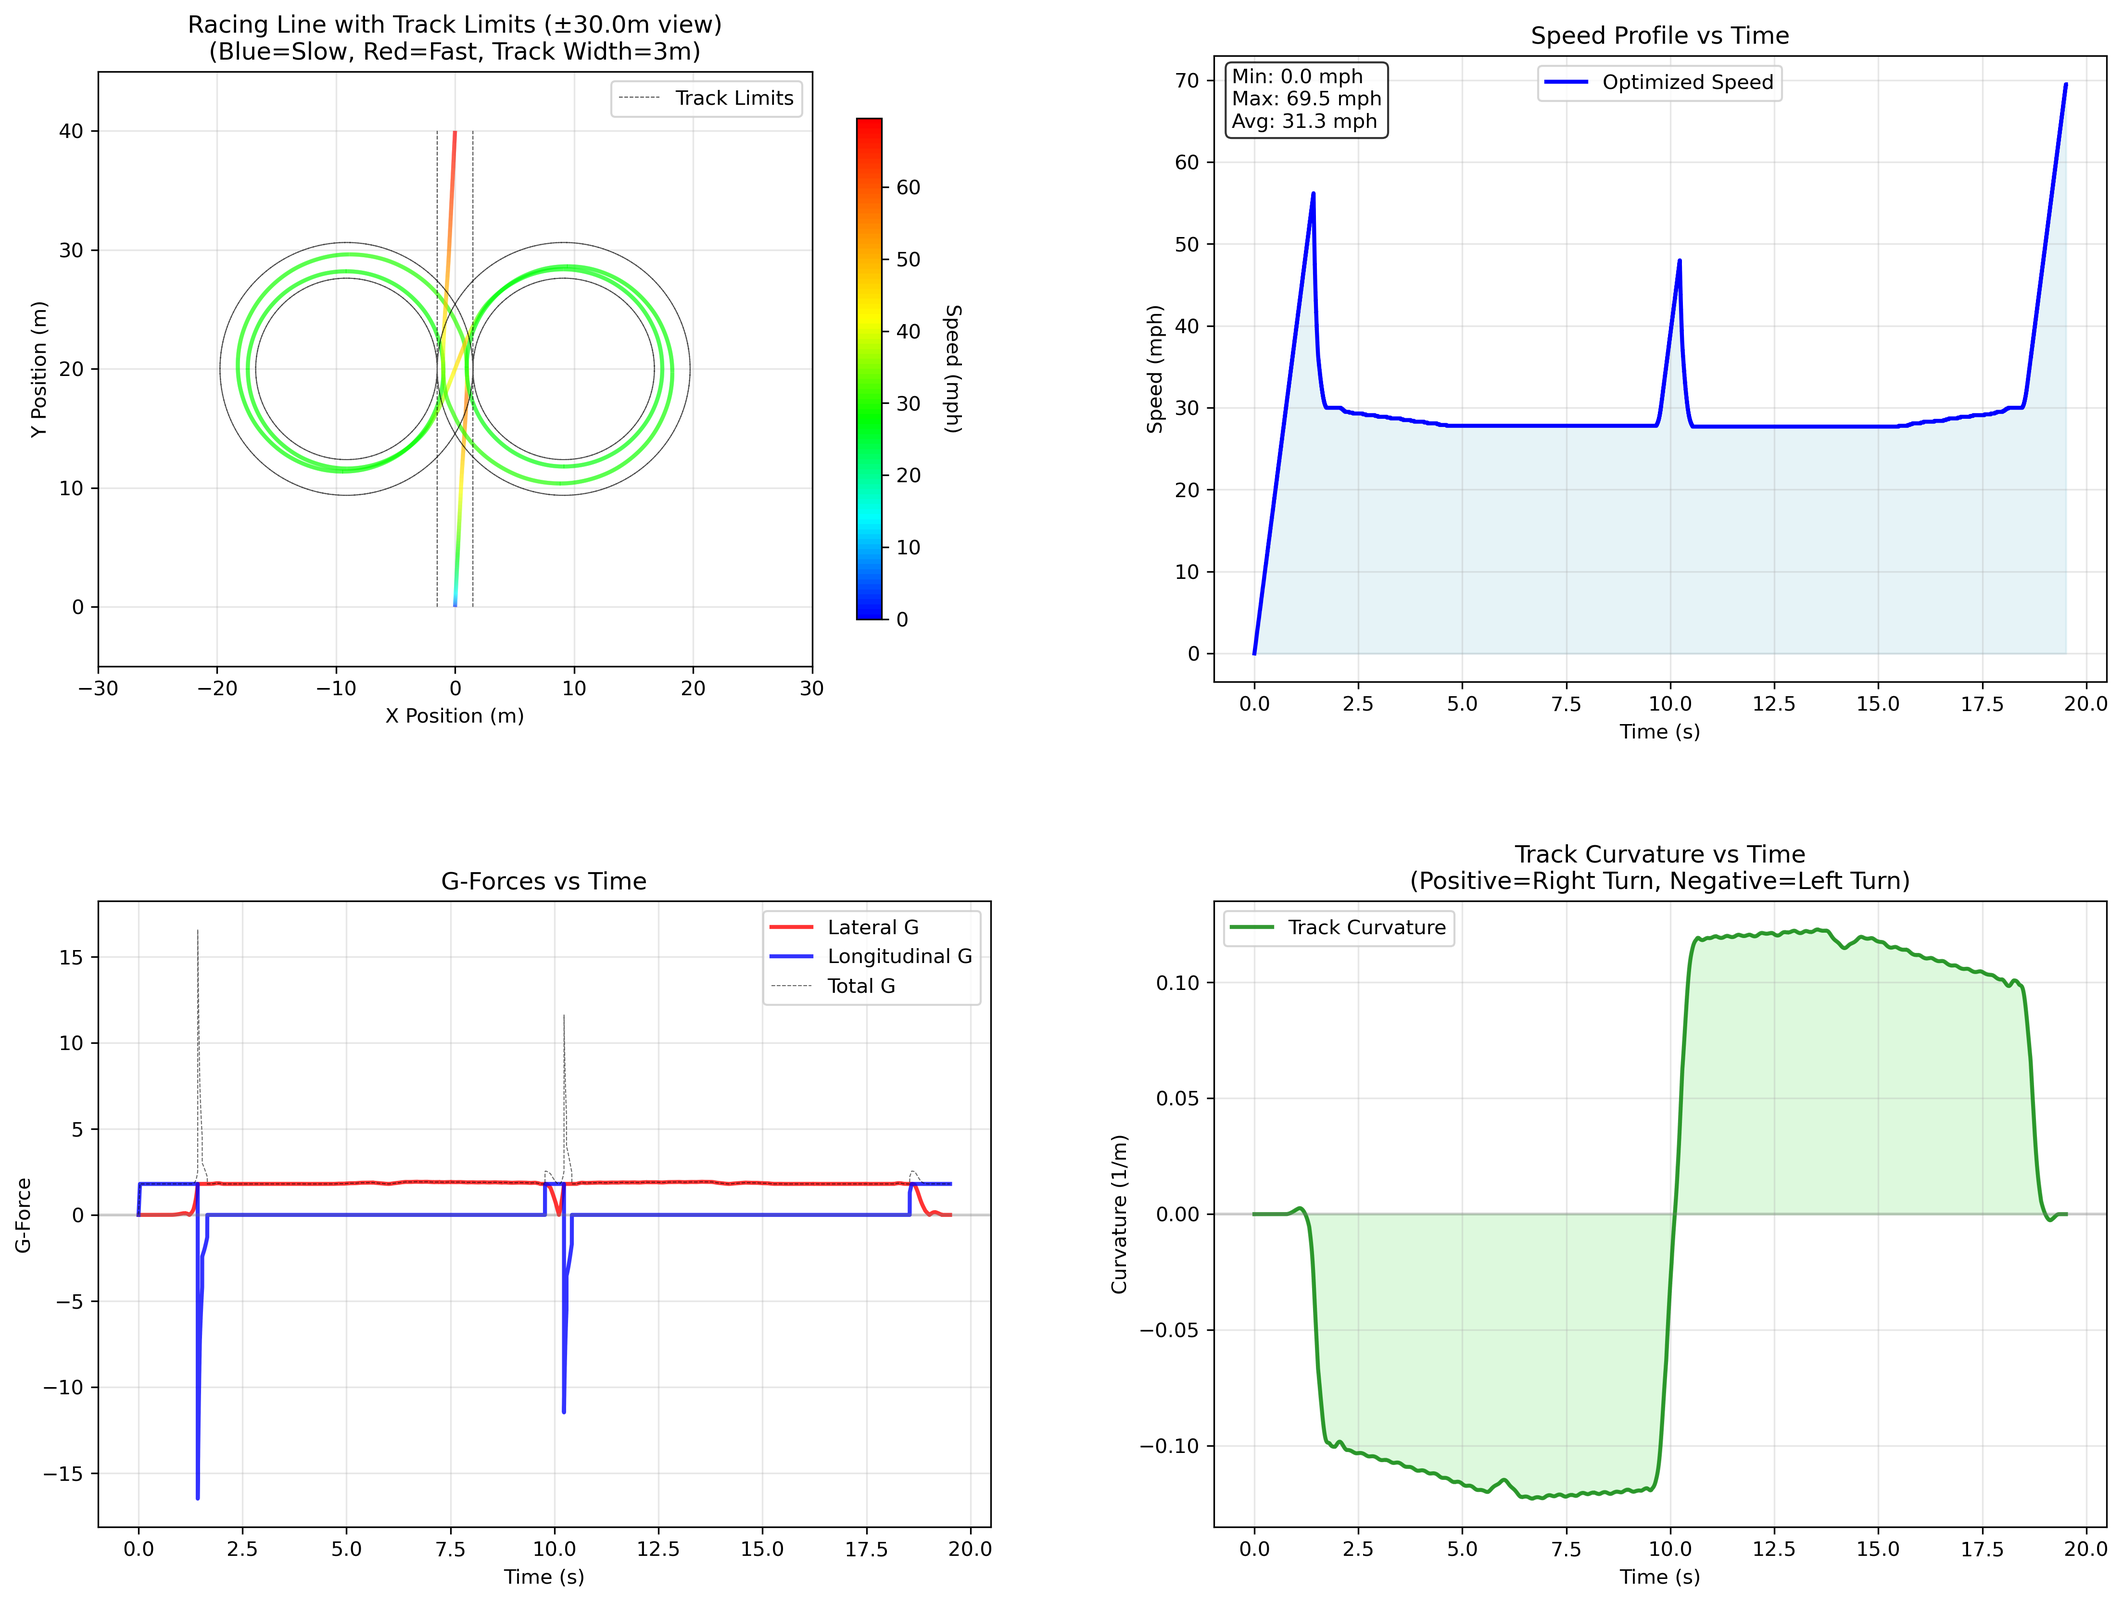
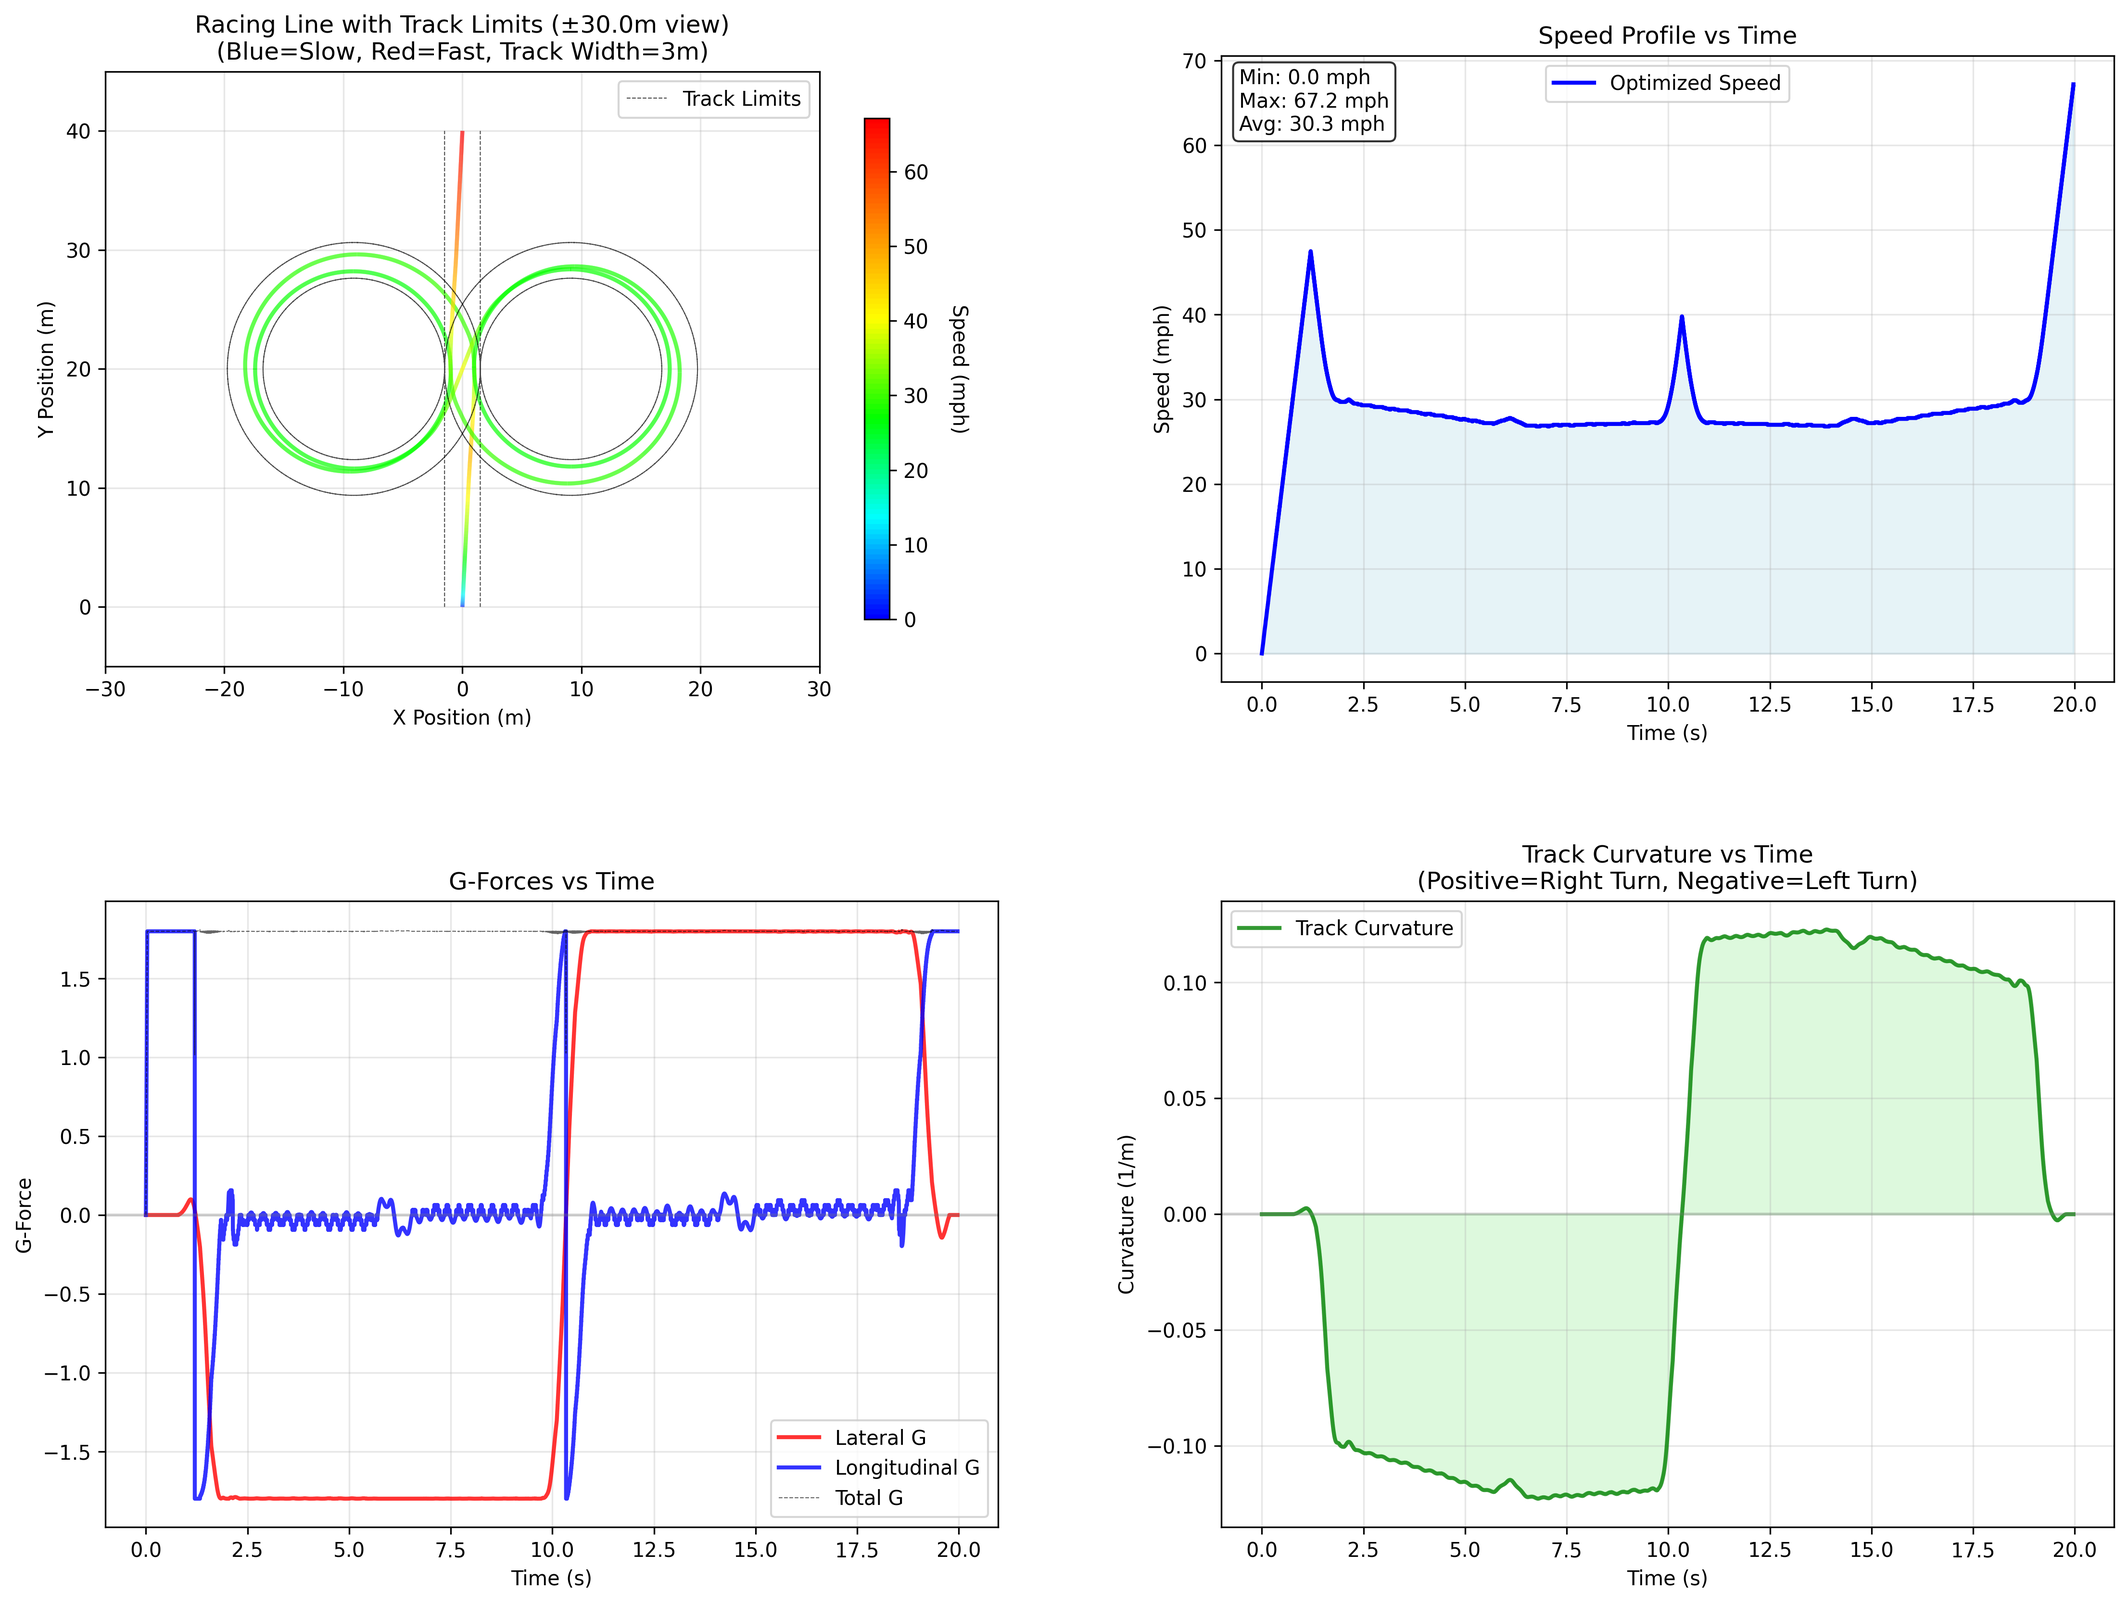
Working for the current line logic

diff --git a/Extensions/SpeedOptimization.cs b/Extensions/SpeedOptimization.cs
@@ -2,6 +2,7 @@ using System;
 using System.IO;
 using System.Linq;
 using System.Threading.Tasks;
+using System.Xml;
 using DLS.Structures;
 
 namespace DLS.Extensions
@@ -41,7 +42,7 @@ namespace DLS.Extensions
             });
 
             // Resolve conflicts between overlapping profiles
-            var (finalSpeedProfile, finalLateralGs, finalLongitudinalGs) = ResolveSpeedAndGForceConflicts(speedProfiles, racingLine, maxAccelG);
+            var (finalSpeedProfile, finalLateralGs, finalLongitudinalGs) = ResolveSpeedAndGForceConflicts(optimiser, speedProfiles, racingLine, maxAccelG);
 
             // Apply final speed profile to racing line
             ApplySpeedProfileToRacingLine(finalSpeedProfile, turns.ToArray());
@@ -67,6 +68,8 @@ namespace DLS.Extensions
             double maxLateralG = optimiser.GetMaxLateralGForTurn(isRightTurn);
             int trueStartIndex = turn.StartIndex;
             int trueEndIndex = turn.EndIndex;
+            int maxBrakeCurveIndex = turn.ApexIndex, maxAccelCurveIndex = turn.ApexIndex;
+
 
             var profile = new SpeedProfile
             {
@@ -80,17 +83,17 @@ namespace DLS.Extensions
             for (int i = 0; i < profile.Speeds.Length; i++)
             {
                 profile.Speeds[i] = terminalSpeedMs;
-                profile.LateralGs[i] = 0.0;
-                profile.LongitudinalGs[i] = 0.0;
             }
 
             for (int i = turn.ApexIndex - 1; i >= 0 && Math.Abs(racingLine[i].Curvature) >= Math.Abs(turn.MaxCurvature * 0.05); i--)
             {
                 trueStartIndex = i;
+                maxBrakeCurveIndex = Math.Abs(racingLine[i].Curvature) > Math.Abs(racingLine[maxBrakeCurveIndex].Curvature) ? i : maxBrakeCurveIndex;
             }
             for (int i = turn.ApexIndex + 1; i < racingLine.Length && Math.Abs(racingLine[i].Curvature) >= Math.Abs(turn.MaxCurvature * 0.05); i++)
             {
                 trueEndIndex = i;
+                maxAccelCurveIndex = Math.Abs(racingLine[i].Curvature) > Math.Abs(racingLine[maxAccelCurveIndex].Curvature) ? i : maxAccelCurveIndex;
             }
 
             // Calculate curvature-limited speeds
@@ -101,7 +104,6 @@ namespace DLS.Extensions
                 {
                     double maxSpeed = Math.Sqrt(maxLateralG * 9.81 / curvature);
                     profile.Speeds[i] = Math.Min(profile.Speeds[i], maxSpeed);
-                    profile.LateralGs[i] = maxLateralG;
                 }
             }
 
@@ -113,33 +115,18 @@ namespace DLS.Extensions
                 {
                     double curvature = Math.Abs(racingLine[i].Curvature);
                     double requiredLateralG = 0.0;
-
                     if (curvature > 0.0001 && profile.Speeds[i] > 0.1)
                     {
-                        requiredLateralG = (profile.Speeds[i] * profile.Speeds[i] * curvature) / 9.81;
+                        requiredLateralG = profile.Speeds[i + 1] * profile.Speeds[i + 1] * curvature / 9.81;
                     }
 
-                    double availableBrakingG = optimiser.GetMaxLongitudinalGForLateralG(requiredLateralG, true);
+                    double availableLongitudinalG = optimiser.GetMaxLongitudinalGForLateralG(requiredLateralG, Math.Abs(racingLine[i].Curvature) < Math.Abs(racingLine[i + 1].Curvature));
 
-                    double maxSpeedFromBraking = Math.Sqrt(
-                        profile.Speeds[i + 1] * profile.Speeds[i + 1] +
-                        2 * availableBrakingG * 9.81 * distance);
+                    double maxSpeed = Math.Sqrt(
+                        profile.Speeds[i + 1] * profile.Speeds[i + 1] -
+                        2 * availableLongitudinalG * 9.81 * distance);
 
-                    double oldSpeed = profile.Speeds[i];
-                    profile.Speeds[i] = Math.Max(profile.Speeds[i], maxSpeedFromBraking);
-
-                    //System.Console.WriteLine($"{profile.Speeds[i] * profile.Speeds[i] * racingLine[i].Curvature / 9.81} at index {i}");
-                    //System.Console.WriteLine($"{availableBrakingG} at index {i}");
-
-                    if (curvature > 0.0001)
-                    {
-                        profile.LateralGs[i] = (profile.Speeds[i] * profile.Speeds[i] * racingLine[i].Curvature) / 9.81;
-                    }
-                    if (profile.Speeds[i] < oldSpeed)
-                    {
-                        profile.LongitudinalGs[i] = -availableBrakingG;
-                        //System.Console.WriteLine($"{-availableBrakingG} at index {i}");
-                    }
+                    profile.Speeds[i] = Math.Min(profile.Speeds[i], maxSpeed);
                 }
             }
 
@@ -154,31 +141,16 @@ namespace DLS.Extensions
 
                     if (curvature > 0.0001 && profile.Speeds[i] > 0.1)
                     {
-                        requiredLateralG = (profile.Speeds[i] * profile.Speeds[i] * curvature) / 9.81;
+                        requiredLateralG = profile.Speeds[i - 1] * profile.Speeds[i - 1] * curvature / 9.81;
                     }
 
-                    double availableAccelG = optimiser.GetMaxLongitudinalGForLateralG(requiredLateralG, false);
+                    double availableAccelG = optimiser.GetMaxLongitudinalGForLateralG(requiredLateralG, Math.Abs(racingLine[i].Curvature) > Math.Abs(racingLine[i - 1].Curvature));
 
                     double maxSpeedFromAccel = Math.Sqrt(
                         profile.Speeds[i - 1] * profile.Speeds[i - 1] +
                         2 * availableAccelG * 9.81 * distance);
 
-                    double oldSpeed = profile.Speeds[i];
-                    profile.Speeds[i] = Math.Max(profile.Speeds[i], maxSpeedFromAccel);
-
-                    if (curvature > 0.0001)
-                    {
-                        profile.LateralGs[i] = (profile.Speeds[i] * profile.Speeds[i] * racingLine[i].Curvature) / 9.81;
-                    }
-
-                    if (profile.Speeds[i] == oldSpeed)
-                    {
-                        profile.LongitudinalGs[i] = 0.0;
-                    }
-                    else if (profile.Speeds[i] > profile.Speeds[i - 1])
-                    {
-                        profile.LongitudinalGs[i] = availableAccelG;
-                    }
+                    profile.Speeds[i] = Math.Min(profile.Speeds[i], maxSpeedFromAccel);
                 }
             }
 
@@ -192,10 +164,8 @@ namespace DLS.Extensions
                         profile.Speeds[i + 1] * profile.Speeds[i + 1] +
                         2 * maxBrakingG * 9.81 * distance);
 
-                    profile.Speeds[i] = Math.Max(profile.Speeds[i], maxSpeedFromBraking);
+                    profile.Speeds[i] = Math.Min(profile.Speeds[i], maxSpeedFromBraking);
                 }
-
-                profile.LongitudinalGs[i] = -maxBrakingG;
 
                 if (profile.Speeds[i] >= terminalSpeedMs * 0.99) break;
             }
@@ -210,9 +180,8 @@ namespace DLS.Extensions
                         profile.Speeds[i - 1] * profile.Speeds[i - 1] +
                         2 * maxAccelG * 9.81 * distance);
 
-                    profile.Speeds[i] = Math.Max(profile.Speeds[i], maxSpeedFromAccel);
+                    profile.Speeds[i] = Math.Min(profile.Speeds[i], maxSpeedFromAccel);
                 }
-                profile.LongitudinalGs[i] = maxAccelG;
 
                 if (profile.Speeds[i] >= terminalSpeedMs * 0.99) break;
             }
@@ -220,7 +189,7 @@ namespace DLS.Extensions
             return profile;
         }
 
-        private static (double[] speeds, double[] lateralGs, double[] longitudinalGs) ResolveSpeedAndGForceConflicts(SpeedProfile[] profiles, LineData[] racingLine, double maxAccelG)
+        private static (double[] speeds, double[] lateralGs, double[] longitudinalGs) ResolveSpeedAndGForceConflicts(this AccelerationOptimiser optimiser, SpeedProfile[] profiles, LineData[] racingLine, double maxAccelG)
         {
             var finalSpeeds = new double[racingLine.Length];
             var finalLateralGs = new double[racingLine.Length];
@@ -262,39 +231,13 @@ namespace DLS.Extensions
                         finalSpeeds[i - 1] * finalSpeeds[i - 1] +
                         2 * maxAccelG * 9.81 * distance);
 
-                    double oldSpeed = finalSpeeds[i];
                     finalSpeeds[i] = Math.Min(finalSpeeds[i], maxSpeedFromAccel);
 
-                    double curvature = Math.Abs(racingLine[i].Curvature);
-                    if (curvature > 0.0001)
+                    if (Math.Abs(racingLine[i].Curvature) > 0.0001)
                     {
-                        finalLateralGs[i] = (finalSpeeds[i] * finalSpeeds[i] * curvature) / 9.81;
+                        finalLateralGs[i] = finalSpeeds[i] * finalSpeeds[i] * racingLine[i].Curvature / 9.81;
                     }
-
-                    if (finalSpeeds[i] < oldSpeed - 0.01)
-                    {
-                        finalLongitudinalGs[i] = maxAccelG;
-                    }
-                    else if (finalSpeeds[i] > finalSpeeds[i - 1] + 0.01)
-                    {
-                        double deltaV = finalSpeeds[i] - finalSpeeds[i - 1];
-                        double estimatedTime = distance / ((finalSpeeds[i] + finalSpeeds[i - 1]) / 2.0);
-                        if (estimatedTime > 0)
-                        {
-                            double acceleration = deltaV / estimatedTime;
-                            finalLongitudinalGs[i] = acceleration / 9.81;
-                        }
-                    }
-                    else if (finalSpeeds[i] < finalSpeeds[i - 1] - 0.01)
-                    {
-                        double deltaV = finalSpeeds[i] - finalSpeeds[i - 1];
-                        double estimatedTime = distance / ((finalSpeeds[i] + finalSpeeds[i - 1]) / 2.0);
-                        if (estimatedTime > 0)
-                        {
-                            double deceleration = deltaV / estimatedTime;
-                            finalLongitudinalGs[i] = deceleration / 9.81;
-                        }
-                    }
+                    finalLongitudinalGs[i] = (finalSpeeds[i] * finalSpeeds[i] - finalSpeeds[i - 1] * finalSpeeds[i - 1]) / (2 * distance) / 9.81;
                 }
             }
 

diff --git a/AccelerationOptimiser real.cs b/AccelerationOptimiser real.cs
@@ -499,10 +499,41 @@ namespace DLS
 
             double maxLongitudinalG = 0.0;
 
+            // Determine the relevant quadrant based on braking state and lateral G direction
+            double minAngle, maxAngle;
+            if (isBraking && requiredLateralG > 0)
+            {
+                // Braking with right turn (positive lateral G): π/2 to π
+                minAngle = Math.PI / 2;
+                maxAngle = Math.PI;
+            }
+            else if (isBraking && requiredLateralG < 0)
+            {
+                // Braking with left turn (negative lateral G): -π/2 to -π
+                minAngle = -Math.PI;
+                maxAngle = -Math.PI / 2;
+            }
+            else if (!isBraking && requiredLateralG > 0)
+            {
+                // Accelerating with right turn (positive lateral G): 0 to π/2
+                minAngle = 0;
+                maxAngle = Math.PI / 2;
+            }
+            else // !isBraking && requiredLateralG < 0
+            {
+                // Accelerating with left turn (negative lateral G): -π/2 to 0
+                minAngle = -Math.PI / 2;
+                maxAngle = 0;
+            }
+
             // Search through GG data to find the maximum longitudinal G available
-            // when the required lateral G is being used
+            // when the required lateral G is being used, only in the relevant quadrant
             foreach (var gg in ggData)
             {
+                // Skip if not in the relevant quadrant
+                if (gg.Angle < minAngle || gg.Angle > maxAngle)
+                    continue;
+
                 var (longitudinalG, lateralG) = gg.GetXYComponents();
 
                 // Check if this point provides sufficient lateral G
@@ -511,8 +542,8 @@ namespace DLS
                     if (isBraking)
                     {
                         // For braking, we want maximum negative longitudinal G
-                        if (longitudinalG < -maxLongitudinalG)
-                            maxLongitudinalG = Math.Abs(longitudinalG);
+                        if (longitudinalG < maxLongitudinalG)
+                            maxLongitudinalG = longitudinalG;
                     }
                     else
                     {
@@ -523,7 +554,7 @@ namespace DLS
                 }
             }
 
-            return maxLongitudinalG >= 0 ? maxLongitudinalG : (isBraking ? 1.0 : 1.0);
+            return maxLongitudinalG;
         }
 
         private (double maxAccel, double maxBraking, double maxLateral) GetGGLimits()

diff --git a/Structures/GGData.cs b/Structures/GGData.cs
@@ -12,10 +12,8 @@ namespace DLS.Structures
         // Helper method to calculate X,Y components from magnitude and angle
         public (double x, double y) GetXYComponents()
         {
-            // Convert from our convention (0 = up) to standard math convention (0 = right)
-            double mathAngle = (Math.PI / 2.0) - Angle;
-            double x = Magnitude * Math.Cos(mathAngle);  // Longitudinal (forward/backward)
-            double y = Magnitude * Math.Sin(mathAngle);  // Lateral (right/left)
+            double x = Magnitude * Math.Cos(Angle);  // Longitudinal (forward/backward)
+            double y = Magnitude * Math.Sin(Angle);  // Lateral (right/left)
             return (x, y);
         }
         

diff --git a/Extensions/TurnAnalysis.cs b/Extensions/TurnAnalysis.cs
@@ -350,7 +350,6 @@ namespace DLS.Extensions
                             if (turn.IsChicaneStart)
                             {
                                 segmentOffset = (bestIndex - turn.EndIndex) / (double)(3 * (turn.EndIndex - turn.ApexIndex)) - 2.0 / 3.0;
-                                System.Console.WriteLine(segmentOffset + " " + markerCount);
                             }
                             else
                             {
